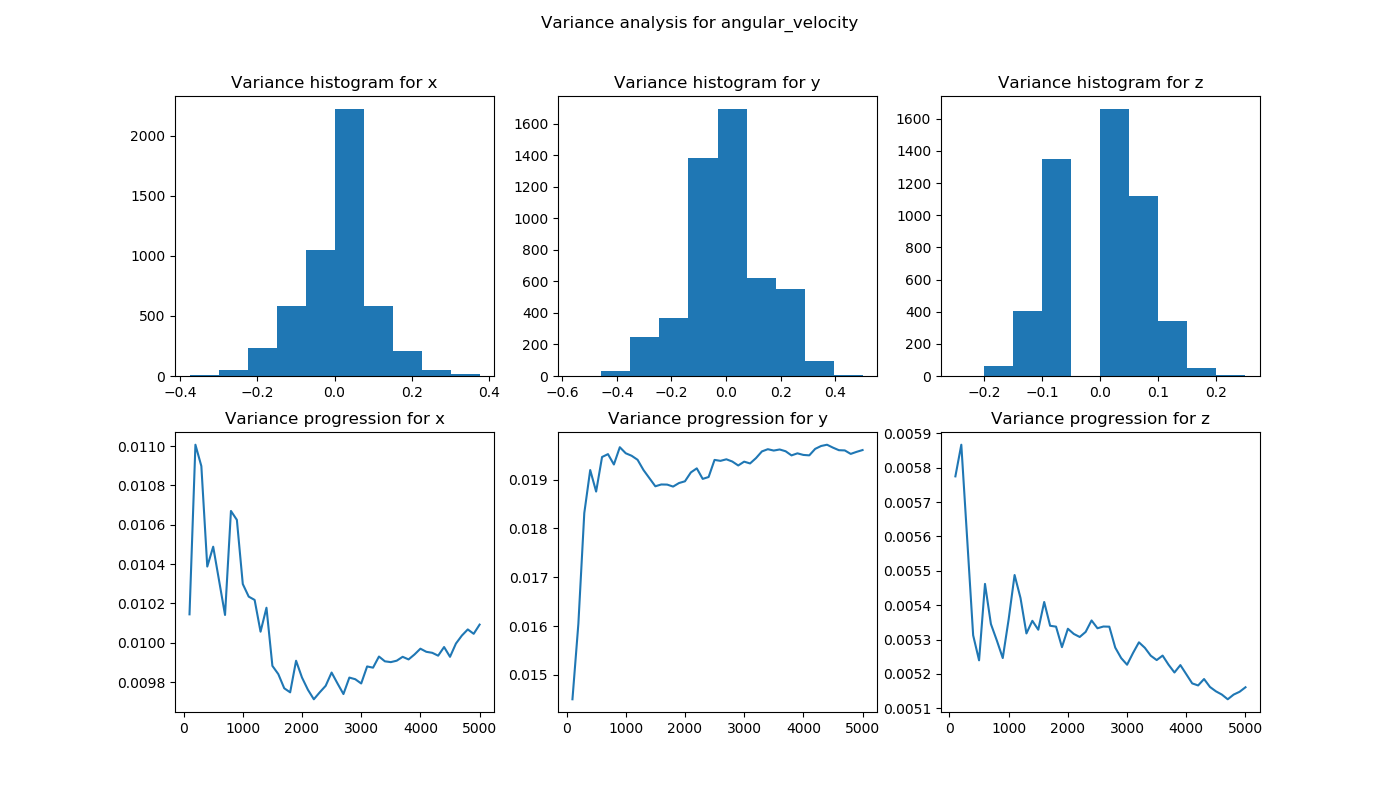
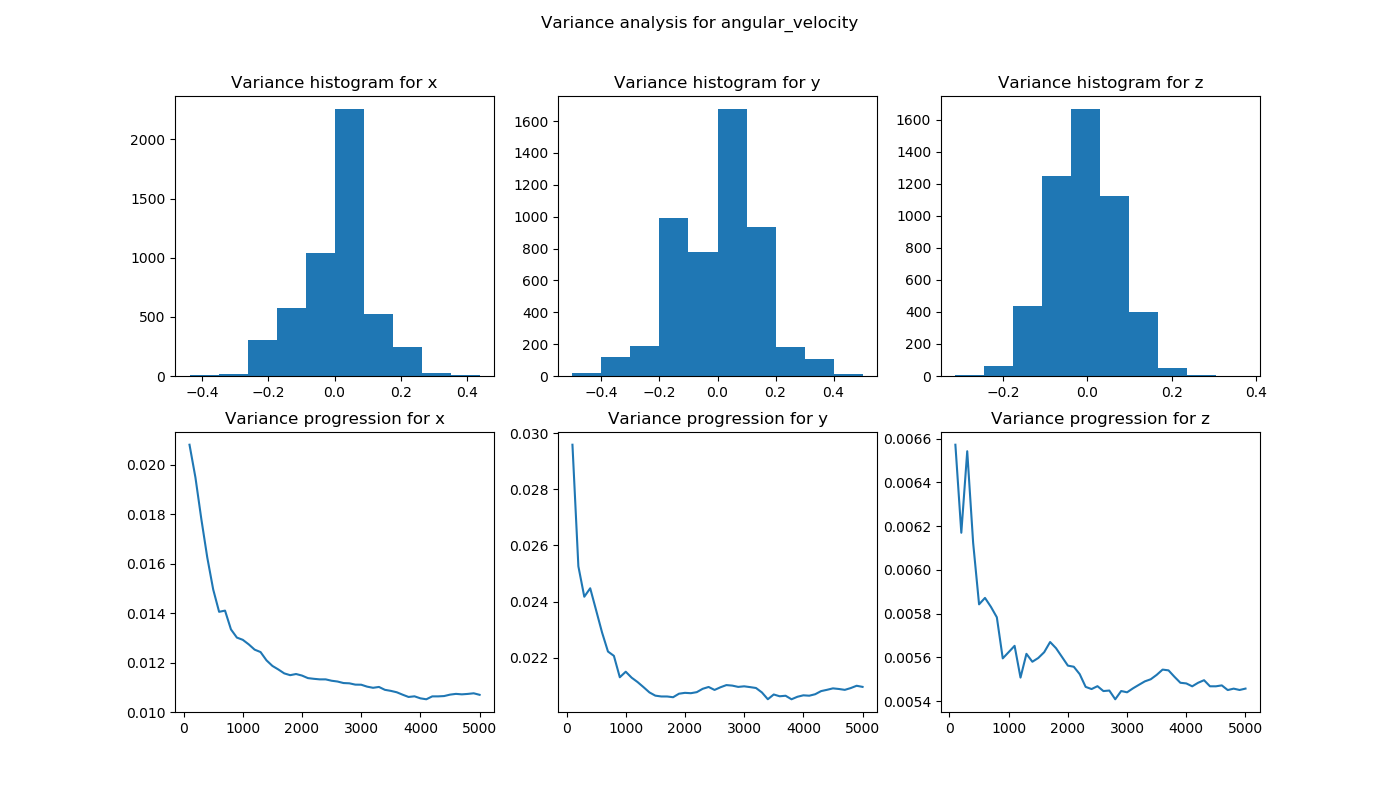
avoid service calls which have issues with arduino serial

diff --git a/arduino/src/ottobot_imu.cpp b/arduino/src/ottobot_imu.cpp
@@ -29,17 +29,17 @@ void imu_setup(ros::NodeHandle* nh, uint8_t imu_address) {
     imu_pub_timer = 0;
     imu_msg.header.frame_id = "imu";
     // No measured variance for orientation but put something in
-    imu_msg.orientation_covariance[0] = 0.00001;
-    imu_msg.orientation_covariance[4] = 0.00001;
-    imu_msg.orientation_covariance[8] = 0.00001;
+    imu_msg.orientation_covariance[0] = 0.000001;
+    imu_msg.orientation_covariance[4] = 0.000001;
+    imu_msg.orientation_covariance[8] = 0.000001;
     // Measured values
-    imu_msg.linear_acceleration_covariance[0] = 0.00007;
-    imu_msg.linear_acceleration_covariance[4] = 0.00008;
-    imu_msg.linear_acceleration_covariance[8] = 0.0052;
+    imu_msg.linear_acceleration_covariance[0] = 0.00015;
+    imu_msg.linear_acceleration_covariance[4] = 0.00015;
+    imu_msg.linear_acceleration_covariance[8] = 0.00018;
     // Measured values
-    imu_msg.angular_velocity_covariance[0] = 0.0101;
-    imu_msg.angular_velocity_covariance[4] = 0.0196;
-    imu_msg.angular_velocity_covariance[8] = 0.0052;
+    imu_msg.angular_velocity_covariance[0] = 0.011;
+    imu_msg.angular_velocity_covariance[4] = 0.021;
+    imu_msg.angular_velocity_covariance[8] = 0.006;
     // Advertise
     nh->advertise(imu_pub);
 
@@ -68,6 +68,20 @@ void imu_setup(ros::NodeHandle* nh, uint8_t imu_address) {
     }
     delay(1000);
     imu_sensor.setExtCrystalUse(true);
+
+    // Preset calibration offsets for better start data (calibration continues auto)
+    calibration_offsets.accel_offset_x = -40;
+    calibration_offsets.accel_offset_y = 10;
+    calibration_offsets.accel_offset_z = -19;
+    calibration_offsets.accel_radius = 1000;
+    calibration_offsets.gyro_offset_x = 0;
+    calibration_offsets.gyro_offset_y = -2;
+    calibration_offsets.gyro_offset_z = -1;
+    calibration_offsets.mag_offset_x = -68;
+    calibration_offsets.mag_offset_y = 337;
+    calibration_offsets.mag_offset_z = 593;
+    calibration_offsets.mag_radius = 723;
+    imu_sensor.setSensorOffsets(calibration_offsets);
 }
 
 /*

diff --git a/arduino/src/ottobot_drive.cpp b/arduino/src/ottobot_drive.cpp
@@ -271,7 +271,13 @@ void populate_joint_msg(sensor_msgs::JointState& input) {
 
     for (int i = 0; i < 4; i++) {
         input.position[i] = (i < 2) ? (float)position_left : (float)position_right;
+        if (input.position[i] < EPSILON) {  // Fix zero issues, possibly due to float conversion....
+            input.position[i] = 0.0;
+        }
         input.velocity[i] = (i < 2) ? (float)speed_left : (float)speed_right;
+        if (input.velocity[i] < EPSILON) {
+            input.velocity[i] = 0.0;
+        }
         input.effort[i] = 0.0;  // Populate effort with zeros as unknown.
     }
 }

diff --git a/catkin_ws/src/ottobot_hardware/src/ottobot_hardware.cpp b/catkin_ws/src/ottobot_hardware/src/ottobot_hardware.cpp
@@ -5,7 +5,7 @@
 #include <ros/service.h>
 #include <joint_limits_interface/joint_limits_rosparam.h>
 
-#define USE_SUB_FOR_UPDATE false  // Use subscriber instead of service to update joint values
+#define USE_SUB_FOR_UPDATE true  // Use subscriber instead of service to update joint values
 
 OttobotHardwareInterface::OttobotHardwareInterface(ros::NodeHandle* nh) :
     nh_(nh)

diff --git a/arduino/src/ottobot_drive.h b/arduino/src/ottobot_drive.h
@@ -34,6 +34,8 @@
 
 #define LIMIT_POSITION_TO_2PI false
 
+#define EPSILON 0.0000000000001
+
 void drive_controller_setup(ros::NodeHandle* nh);
 void control_cmd_callback(const ottobot_hardware::WheelCmd& cmd_msg);
 void update_tick_left();
